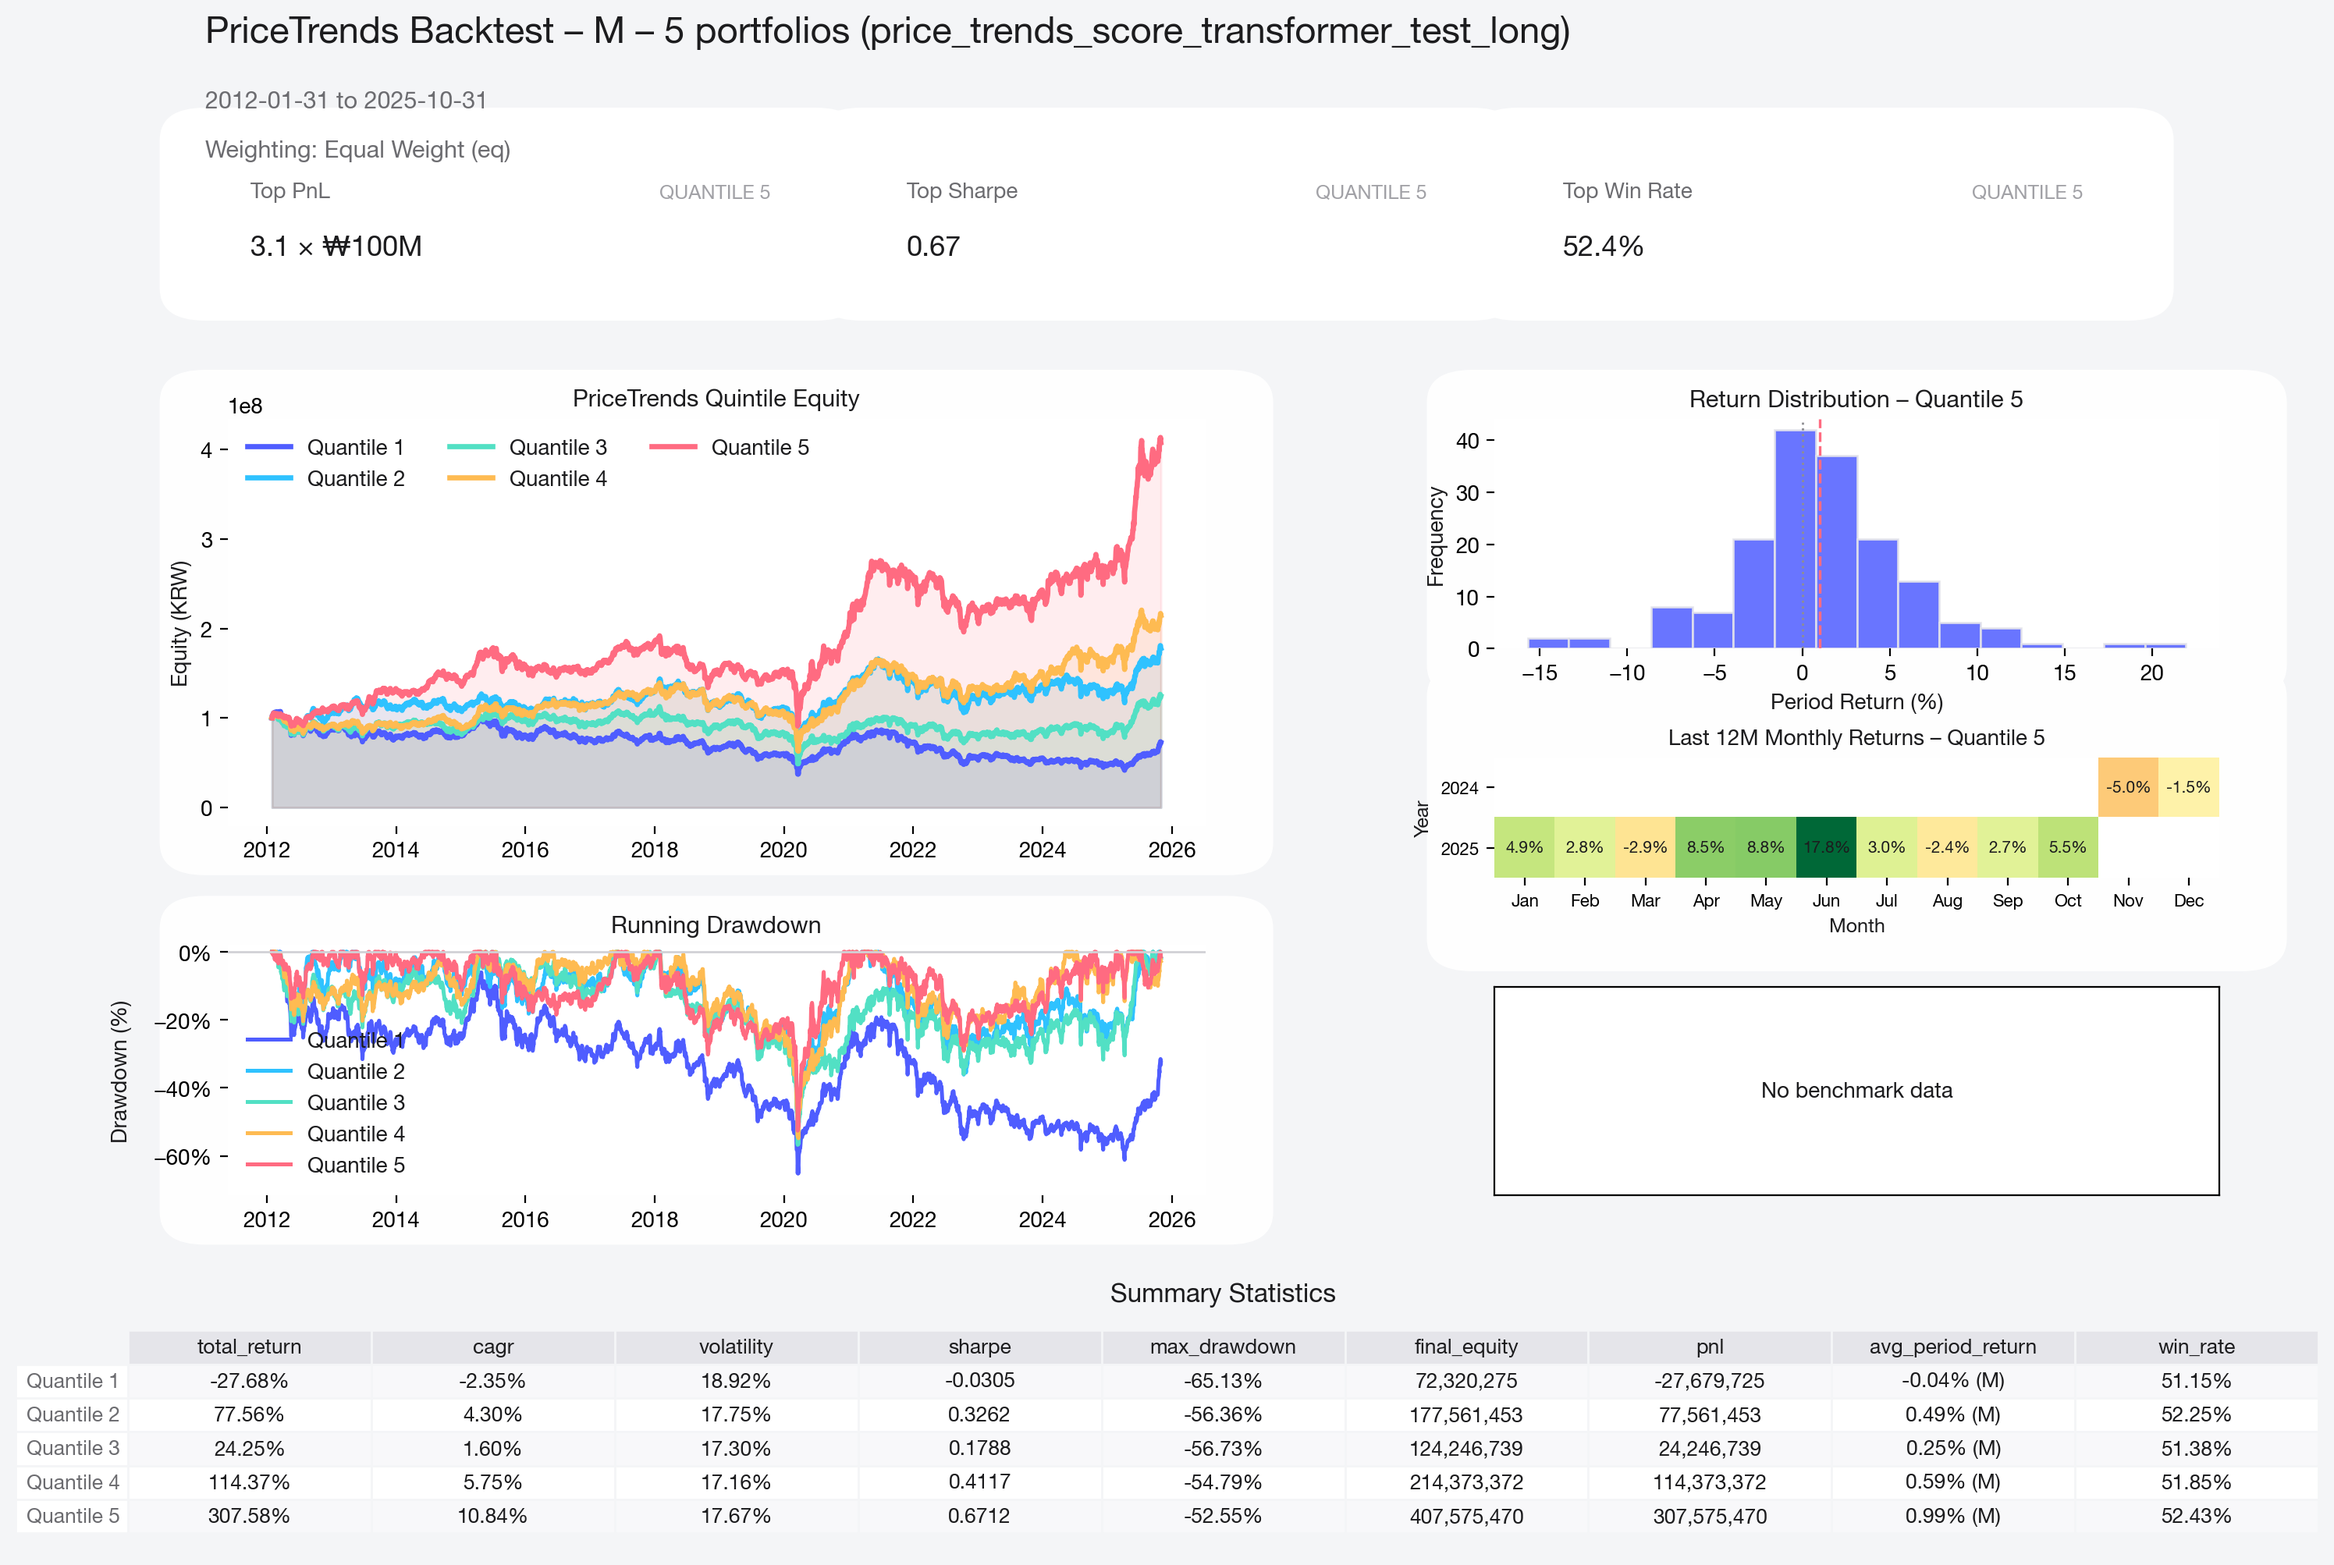
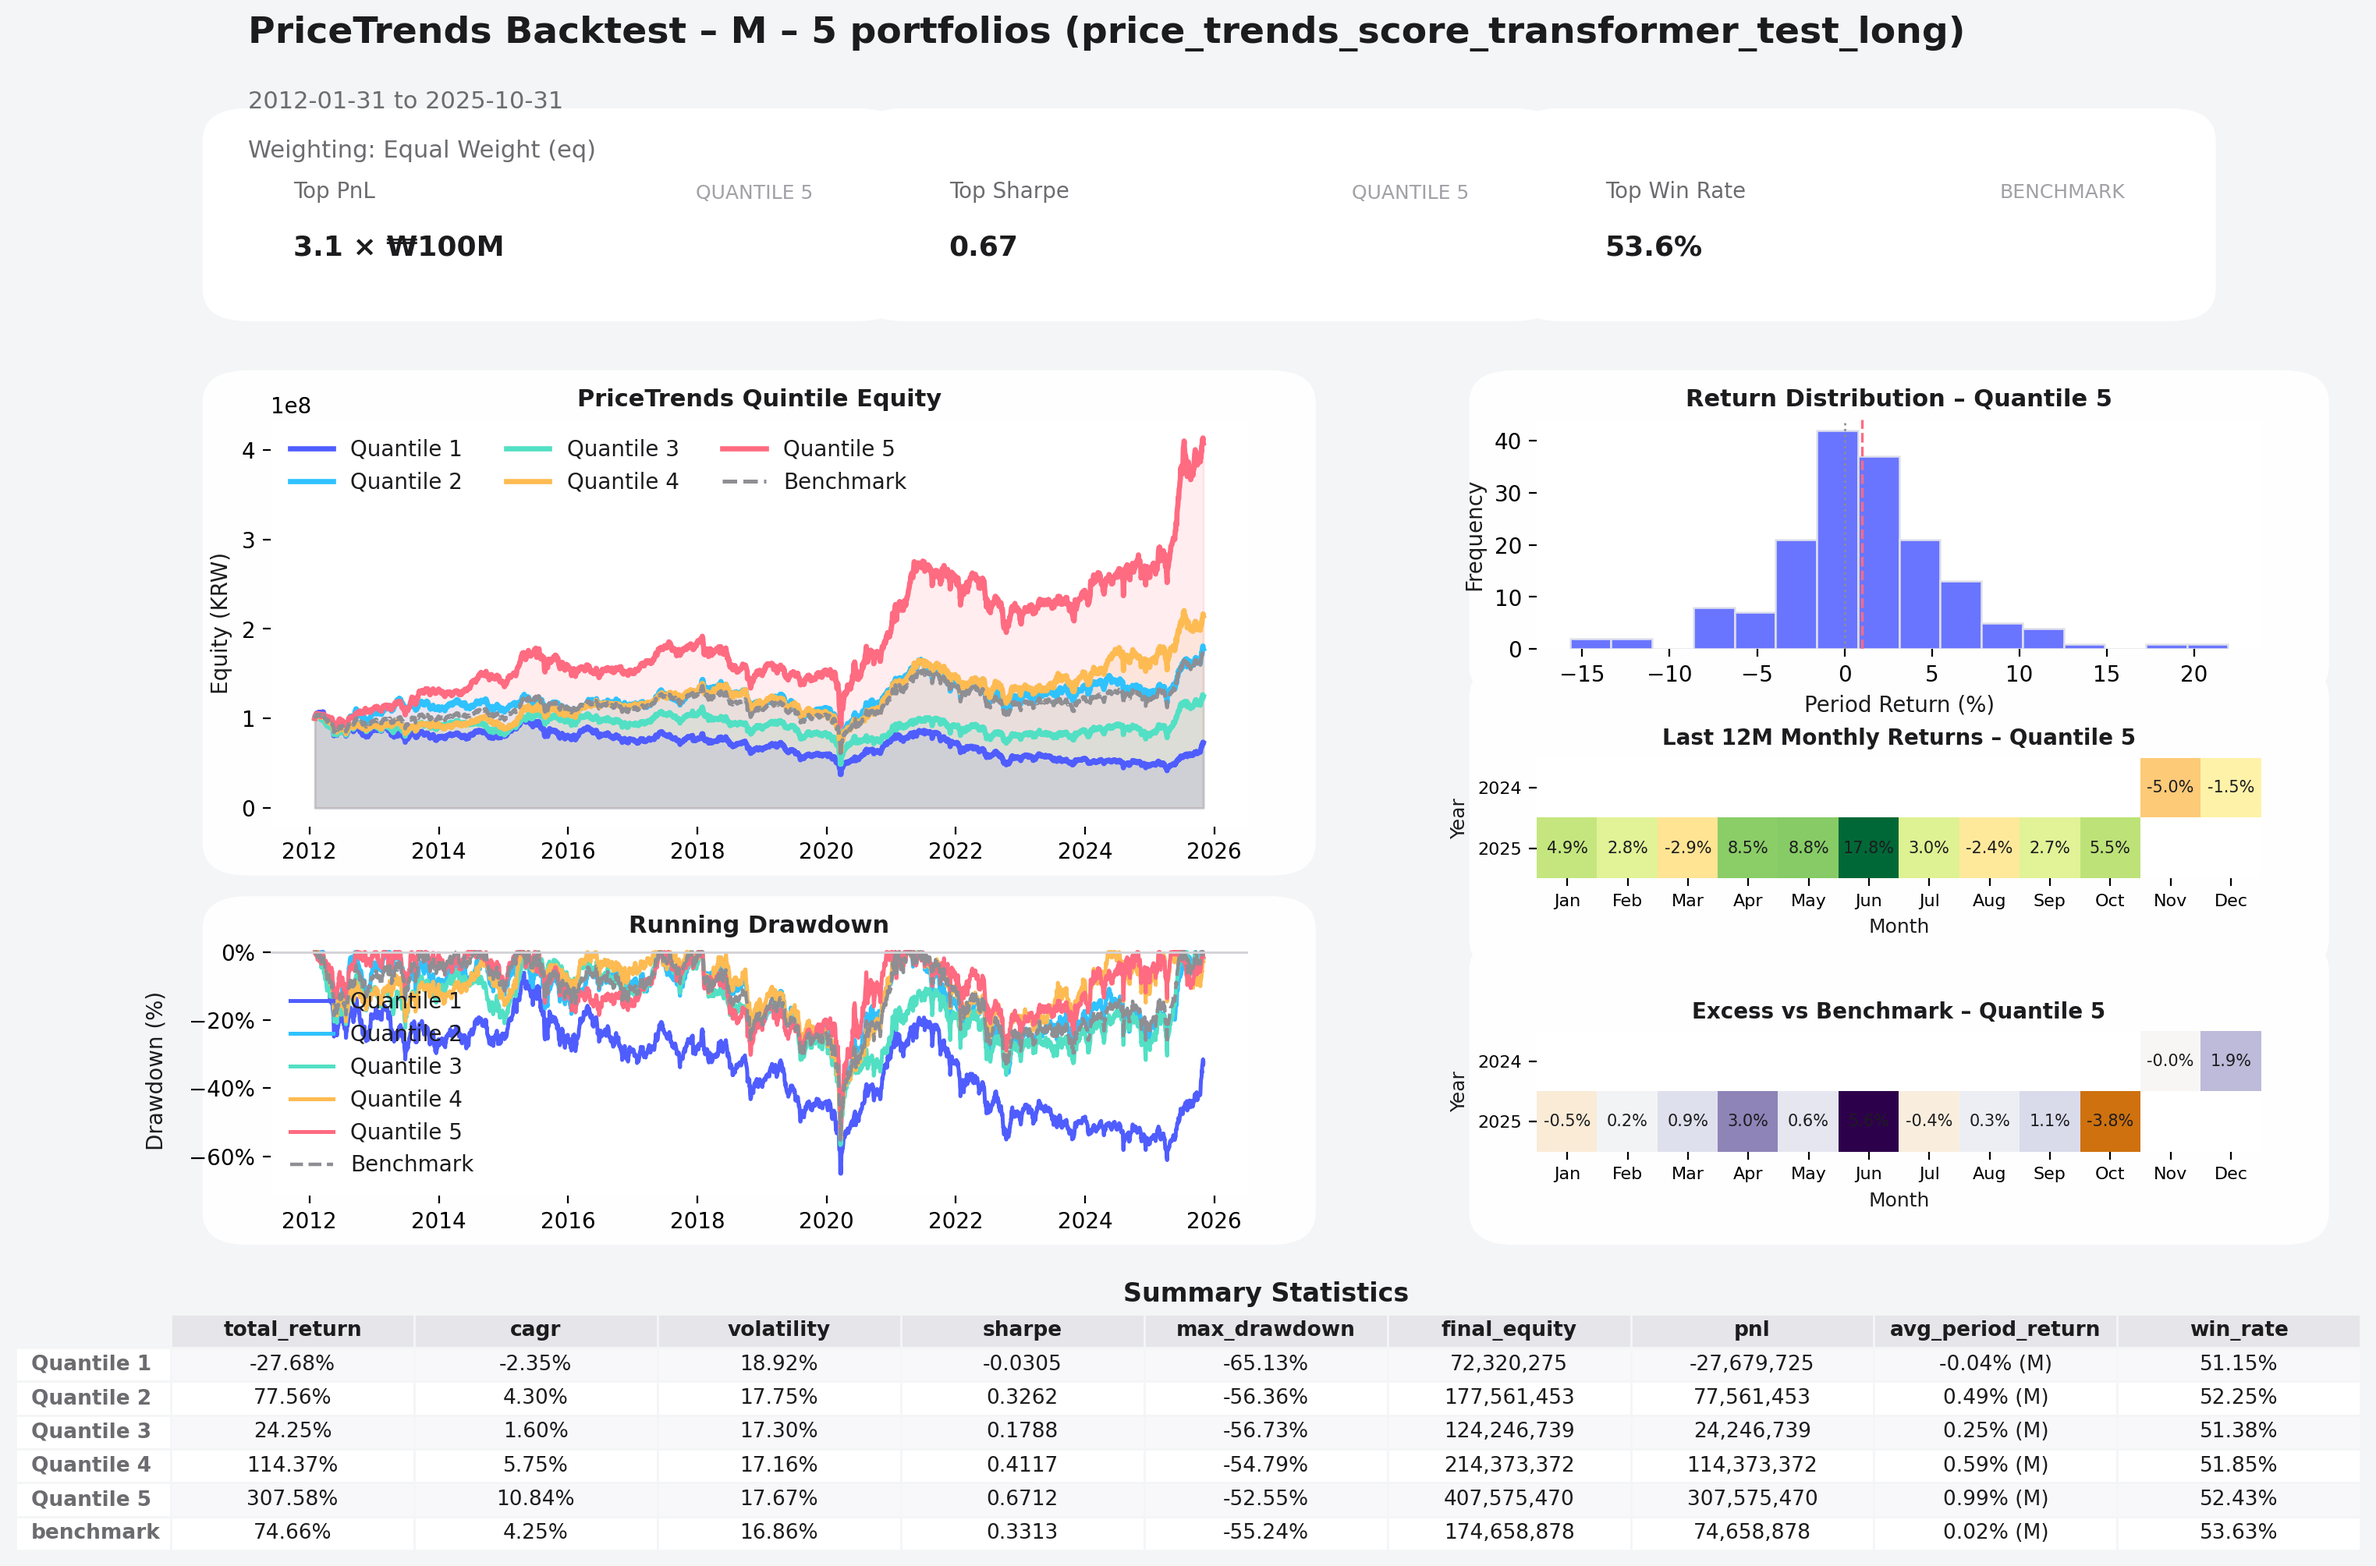
ADJ: Adjust bugs

diff --git a/backtest/main.py b/backtest/main.py
@@ -333,6 +333,50 @@ def run_ensemble_batch_example(
     return tester
 
 
+def run_comparison_example(
+    input_days: int = 20,
+    return_days: int = 20,
+    rebalance_frequency: str = "M",
+    portfolio_weighting: str = "mc",
+    apply_trading_costs: bool = False,
+    buy_cost_bps: float = 0.0,
+    sell_cost_bps: float = 0.0,
+    tax_bps: float = 0.0,
+    entry_lag: int = 0,
+    entry_price_mode: str = "close",
+    benchmark: BenchmarkType | str = BenchmarkType.KOSPI200,
+    start_date: str | None = None,
+    end_date: str | None = None,
+) -> Backtester:
+    config = _build_config(
+        portfolio_weighting=portfolio_weighting,
+        scores_path=(
+            score_path(input_days, return_days, mode="ORIGIN", fusion=False),
+            score_path(input_days, return_days, mode="TEST", fusion=False),
+            score_path(input_days, return_days, mode="TEST", fusion=True),
+            transformer_score_path(mode="TEST", timeframe="MEDIUM"),
+            transformer_score_path(mode="TEST", timeframe="LONG"),
+        ),
+        rebalance_frequency=rebalance_frequency,
+        apply_trading_costs=apply_trading_costs,
+        buy_cost_bps=buy_cost_bps,
+        sell_cost_bps=sell_cost_bps,
+        tax_bps=tax_bps,
+        entry_lag=entry_lag,
+        entry_price_mode=entry_price_mode,
+        benchmark_symbol=benchmark,
+        start_date=start_date,
+        end_date=end_date,
+    )
+    tester = Backtester(config)
+    report = tester.run(group_selector="q5")
+    logger.info("Comprehensive Batch summary:\n%s", report.summary_table())
+    output_path = report.save()
+    logger.info("Saved comprehensive comparison report to %s", output_path)
+    REGISTRY.latest_batch = tester
+    return tester
+
+
 def main() -> None:
     logging.basicConfig(level=logging.INFO, format="%(message)s")
     try:
@@ -368,15 +412,15 @@ if __name__ == "__main__":
     tax_bps = 15.0
     entry_lag = 0
     entry_price_mode = "close"
-    benchmark = None
+    benchmark = BenchmarkType.KOSPI200EQ
     portfolio_weighting = "eq"
     DEFAULT_UNIVERSE = MarketUniverse.KOSPI200
 
     # NOTE: Validation
-    tester = run_validation_example(
-        rebalance_frequency="M",
-        start_date="2012-01-01",
-    )
+    # tester = run_validation_example(
+    #     rebalance_frequency="M",
+    #     start_date="2012-01-01",
+    # )
 
     # tester = run_transformer_example(
     #     mode="TEST",
@@ -390,7 +434,23 @@ if __name__ == "__main__":
     #     entry_lag=entry_lag,
     #     entry_price_mode=entry_price_mode,
     #     benchmark=benchmark,
+    #     start_date="2012-01-31",
     # )
+
+    tester = run_comparison_example(
+        input_days=20,
+        return_days=20,
+        rebalance_frequency="M",
+        portfolio_weighting=portfolio_weighting,
+        apply_trading_costs=apply_trading_costs,
+        buy_cost_bps=buy_cost_bps,
+        sell_cost_bps=sell_cost_bps,
+        tax_bps=tax_bps,
+        entry_lag=entry_lag,
+        entry_price_mode=entry_price_mode,
+        benchmark=benchmark,
+        start_date="2012-01-31",
+    )
 
     # tester = run_single_example(
     #     input_days=20,

diff --git a/backtest/runner.py b/backtest/runner.py
@@ -19,12 +19,14 @@ from backtest.report import BacktestReport, PortfolioReport
 
 GroupSelector = str | int | Sequence[str | int] | None
 ScoreInput = Path | str | Sequence[Path | str] | None
-LABEL_TOKEN_PREFIXES = ("test", "origin", "fusion", "i", "r")
+LABEL_TOKEN_PREFIXES = ("test", "origin", "fusion", "i", "r", "transformer", "short", "medium", "long")
 
 
 def _label_from_path(path: Path) -> str:
     tokens = [tok for tok in path.stem.split("_") if tok.lower().startswith(LABEL_TOKEN_PREFIXES)]
-    return "_".join(tokens) if tokens else path.stem
+    label = "_".join(tokens) if tokens else path.stem
+    # print(f"DEBUG: path={path.name}, tokens={tokens}, label={label}")
+    return label
 
 
 def _parse_score_inputs(value: ScoreInput) -> tuple[Path, ...] | None:
